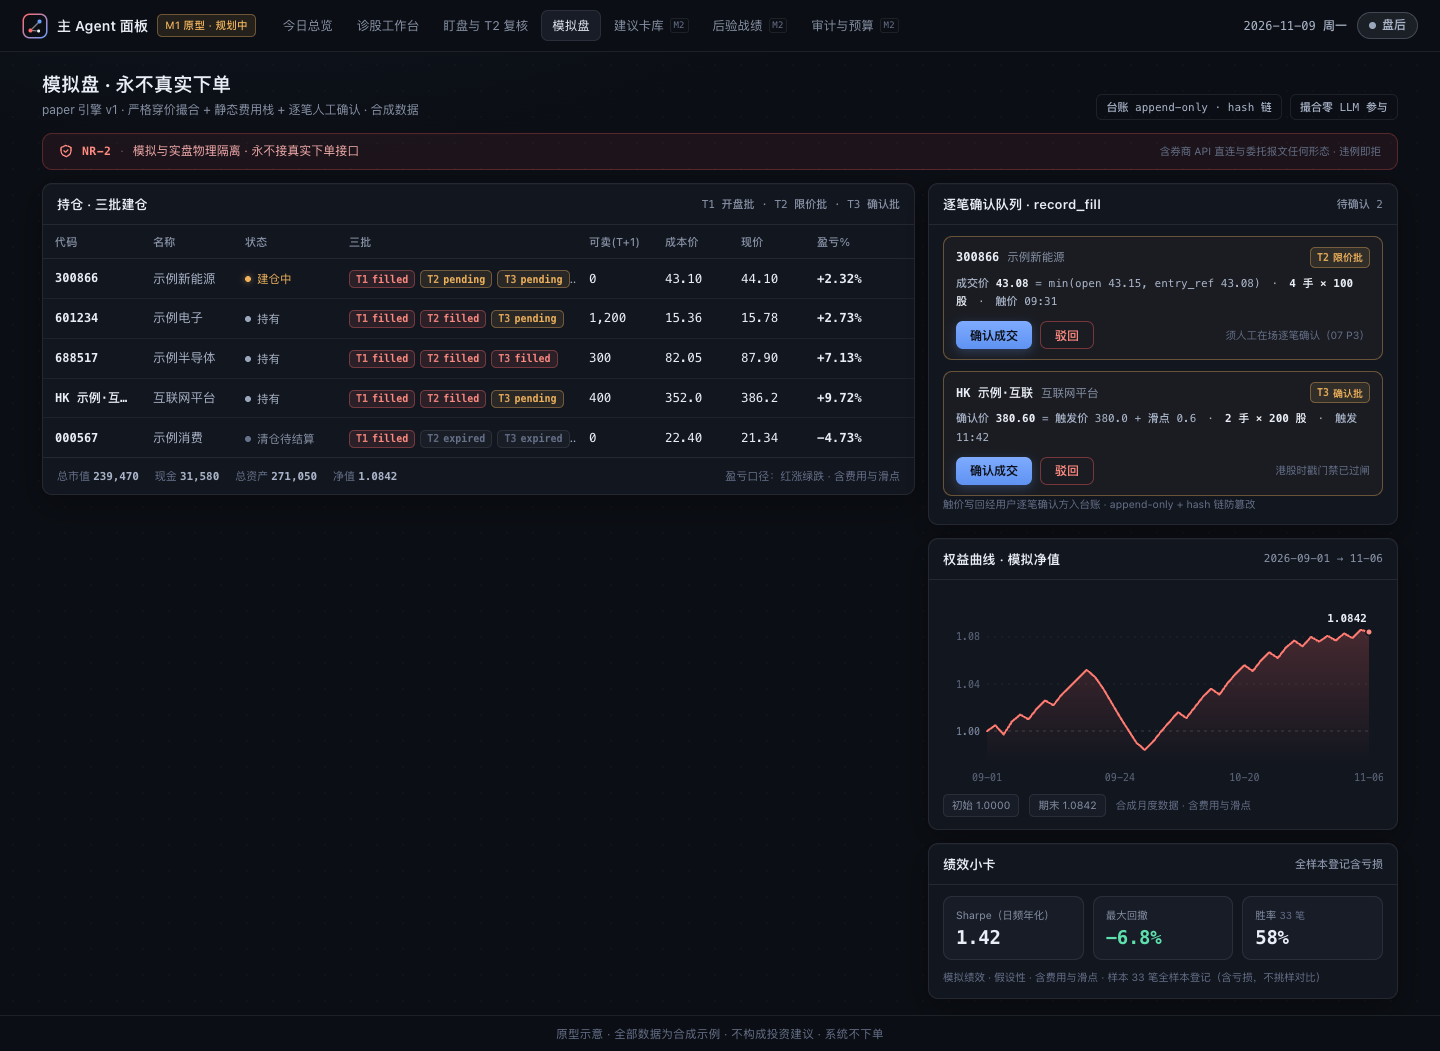
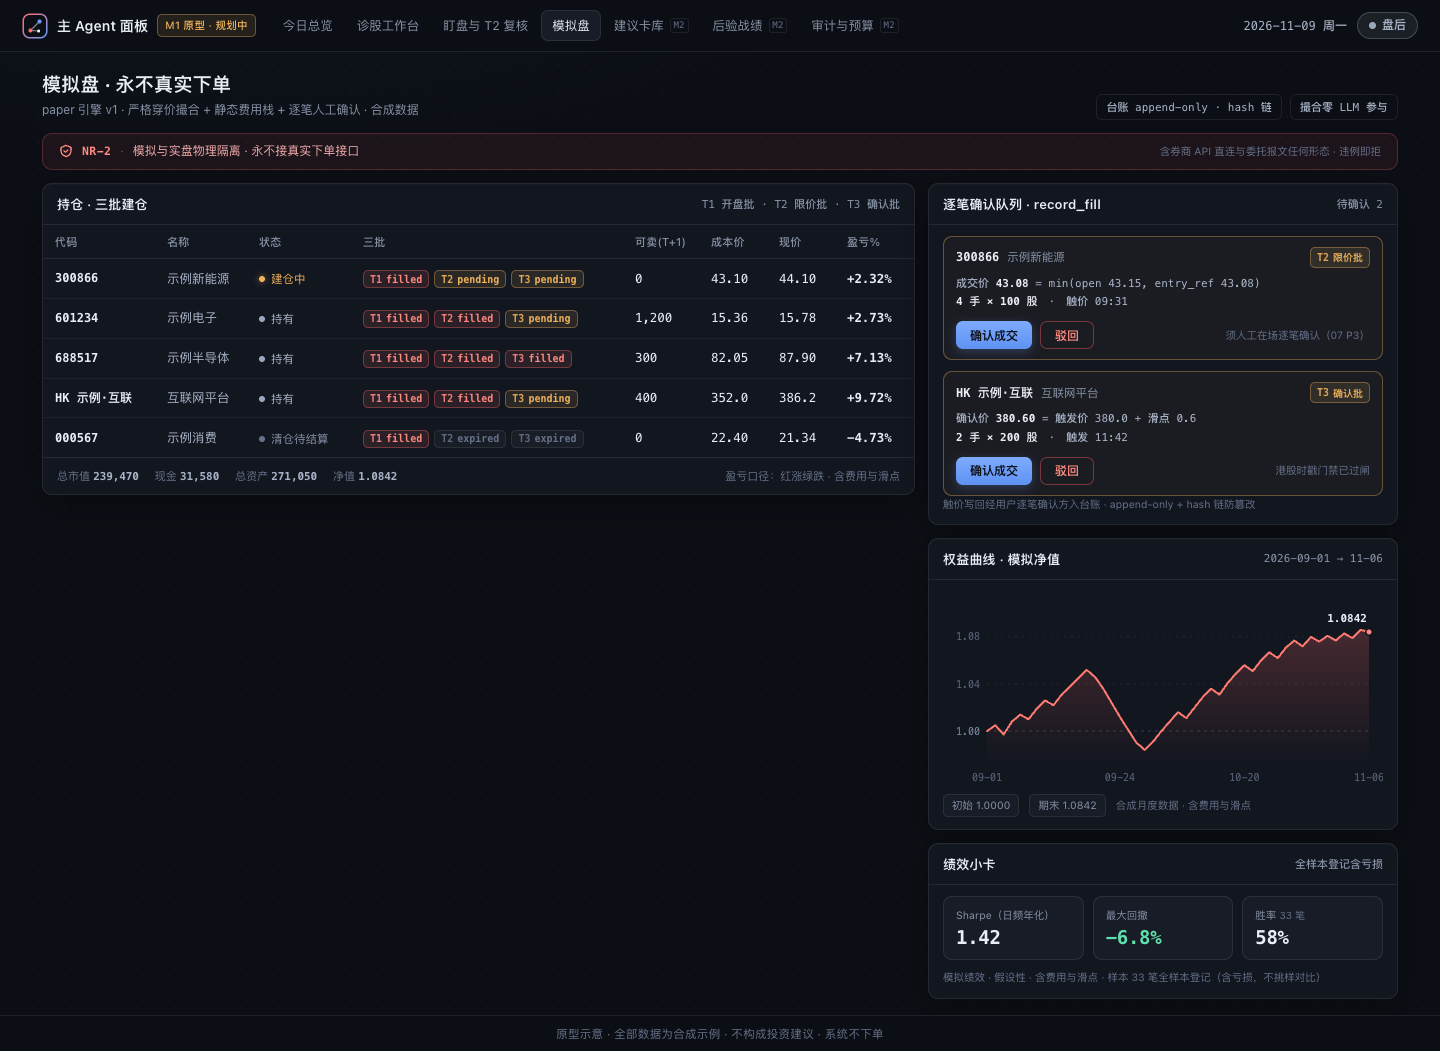
fix(Prototypes): 模拟盘页三批列加宽消除截断并将确认队列明细改为固定两行 0.0.28;
持仓表「三批」列 240px 放不下三枚徽章（T3 被截成「T3 pending..」、000567 的 T3 expired 同样被截），加宽至 272px，代码列加宽至 112px 以完整显示「HK 示例·互联」，成本价/现价列收至 68px，可卖列保持 76px 容纳表头；逐笔确认队列明细由随宽度自动折行（把「4 手 × 100 股」拆成两行）改为显式两行：第一行价格算式，第二行手数与时刻；以脚本核验无溢出单元格、两处明细均恰为两行，整页 PNG 按 1440px 视口同口径重截；

🤖 Generated with [Claude Code](https://github.com/claude), [CodeX](https://openai.com), [Gemini](https://github.com/apps/gemini-code-assist)

diff --git a/docs/prototypes/main-agent/paper.html b/docs/prototypes/main-agent/paper.html
@@ -168,7 +168,7 @@ tr.open td:first-child{box-shadow:inset 4px 0 0 #F0B35C,0 0 10px rgba(240,179,92
       <div class="card-h"><span class="ct">持仓 · 三批建仓</span><span class="cm">T1 开盘批 · T2 限价批 · T3 确认批</span></div>
       <table class="tbl">
         <colgroup>
-          <col style="width:98px"><col style="width:92px"><col style="width:104px"><col style="width:240px"><col style="width:76px"><col style="width:76px"><col style="width:76px"><col>
+          <col style="width:112px"><col style="width:92px"><col style="width:104px"><col style="width:272px"><col style="width:76px"><col style="width:68px"><col style="width:68px"><col>
         </colgroup>
         <thead><tr><th>代码</th><th>名称</th><th>状态</th><th>三批</th><th>可卖(T+1)</th><th>成本价</th><th>现价</th><th>盈亏%</th></tr></thead>
         <tbody>
@@ -221,7 +221,7 @@ tr.open td:first-child{box-shadow:inset 4px 0 0 #F0B35C,0 0 10px rgba(240,179,92
             <span class="fill-code">300866</span><span class="fill-name">示例新能源</span>
             <span class="fill-leg leg pending"><i>T2</i>限价批</span>
           </div>
-          <div class="fill-det">成交价 <b>43.08</b> = min(open 43.15, entry_ref 43.08)　·　<b>4 手 × 100 股</b>　·　触价 09:31</div>
+          <div class="fill-det">成交价 <b>43.08</b> = min(open 43.15, entry_ref 43.08)<br><b>4 手 × 100 股</b>　·　触价 09:31</div>
           <div class="fill-act">
             <button class="btn btn-ok">确认成交</button>
             <button class="btn btn-no">驳回</button>
@@ -233,7 +233,7 @@ tr.open td:first-child{box-shadow:inset 4px 0 0 #F0B35C,0 0 10px rgba(240,179,92
             <span class="fill-code">HK 示例·互联</span><span class="fill-name">互联网平台</span>
             <span class="fill-leg leg pending"><i>T3</i>确认批</span>
           </div>
-          <div class="fill-det">确认价 <b>380.60</b> = 触发价 380.0 + 滑点 0.6　·　<b>2 手 × 200 股</b>　·　触发 11:42</div>
+          <div class="fill-det">确认价 <b>380.60</b> = 触发价 380.0 + 滑点 0.6<br><b>2 手 × 200 股</b>　·　触发 11:42</div>
           <div class="fill-act">
             <button class="btn btn-ok">确认成交</button>
             <button class="btn btn-no">驳回</button>
